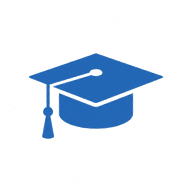
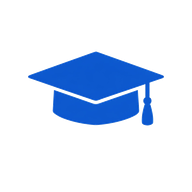
アイコン完全修正 - GPT生成・白背景除去・全箇所反映

Changed region(s): [[0.125, 0.25, 0.875, 0.75]]

diff --git a/flutter_service_worker.js b/flutter_service_worker.js
@@ -16,7 +16,7 @@ const RESOURCES = {"canvaskit/chromium/canvaskit.js": "5e27aae346eee469027c80af0
 "canvaskit/skwasm_heavy.js.symbols": "3c01ec03b5de6d62c34e17014d1decd3",
 "canvaskit/skwasm_heavy.wasm": "8034ad26ba2485dab2fd49bdd786837b",
 "flutter.js": "888483df48293866f9f41d3d9274a779",
-"flutter_bootstrap.js": "27e05513e7dd56eea961840a68dd6fd5",
+"flutter_bootstrap.js": "9b71ac75c211ff540dd35e94ad611bfe",
 "index.html": "2666cd97b9c1dfd57c798b2317a15ed2",
 "/": "2666cd97b9c1dfd57c798b2317a15ed2",
 "main.dart.js": "43f718d05afdb39a18bf10d6e6cda086",
@@ -69,7 +69,7 @@ const RESOURCES = {"canvaskit/chromium/canvaskit.js": "5e27aae346eee469027c80af0
 "assets/assets/cab/law/new_img07_p0_question.png": "dd3dc83650ad5b5eb99ff6041432c925",
 "assets/assets/cab/law/new_img07_p1_options.png": "2c902f8df40ea1750c3787ed7308bbb2",
 "assets/assets/cab/law/new_img07_p1_question.png": "4eeeba71b18e05e6640eacf9d30a448a",
-"assets/assets/logo.png": "733233c03b6e189b5796ce0575356936",
+"assets/assets/logo.png": "d81e1e1d399565869adadbb779baa262",
 "assets/packages/cupertino_icons/assets/CupertinoIcons.ttf": "33b7d9392238c04c131b6ce224e13711",
 "assets/fonts/MaterialIcons-Regular.otf": "5ea84872b0e7d188d881b12df2c86dc6",
 "assets/shaders/ink_sparkle.frag": "ecc85a2e95f5e9f53123dcaf8cb9b6ce",
@@ -78,11 +78,11 @@ const RESOURCES = {"canvaskit/chromium/canvaskit.js": "5e27aae346eee469027c80af0
 "assets/AssetManifest.bin.json": "cd470044592a6c58cd965ec3f77564fa",
 "assets/FontManifest.json": "dc3d03800ccca4601324923c0b1d6d57",
 "assets/NOTICES": "f092896a1b3d9597c02b23e9e3beccef",
-"favicon.png": "bf454326ee7d833514ed18e4af8a7175",
-"icons/Icon-192.png": "d84a6b808c821b0f3f8102a28e620fef",
-"icons/Icon-512.png": "733233c03b6e189b5796ce0575356936",
-"icons/Icon-maskable-192.png": "d84a6b808c821b0f3f8102a28e620fef",
-"icons/Icon-maskable-512.png": "733233c03b6e189b5796ce0575356936",
+"favicon.png": "875cddc0597f5a409322de17d53e596e",
+"icons/Icon-192.png": "1879f686ec890345d4da37444477f344",
+"icons/Icon-512.png": "d81e1e1d399565869adadbb779baa262",
+"icons/Icon-maskable-192.png": "1879f686ec890345d4da37444477f344",
+"icons/Icon-maskable-512.png": "d81e1e1d399565869adadbb779baa262",
 "manifest.json": "48da9ef8abb8322571dfc1a67e893986"};
 // The application shell files that are downloaded before a service worker can
 // start.

diff --git a/flutter_bootstrap.js b/flutter_bootstrap.js
@@ -38,6 +38,6 @@ _flutter.buildConfig = {"engineRevision":"c29809135135e262a912cf583b2c90deb9ded6
 
 _flutter.loader.load({
   serviceWorkerSettings: {
-    serviceWorkerVersion: "1233573917"
+    serviceWorkerVersion: "2514236045"
   }
 });
